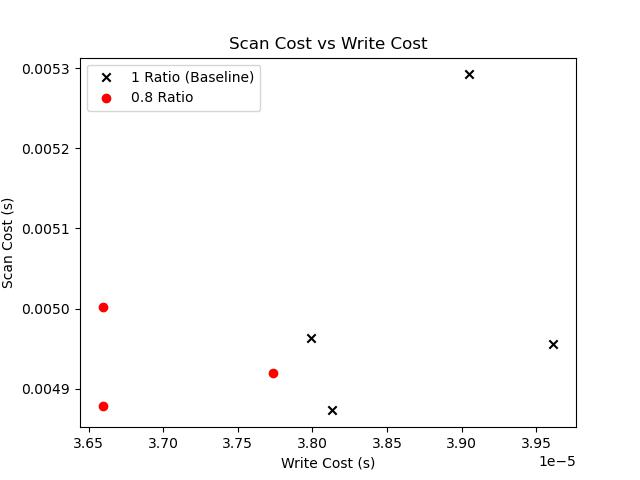
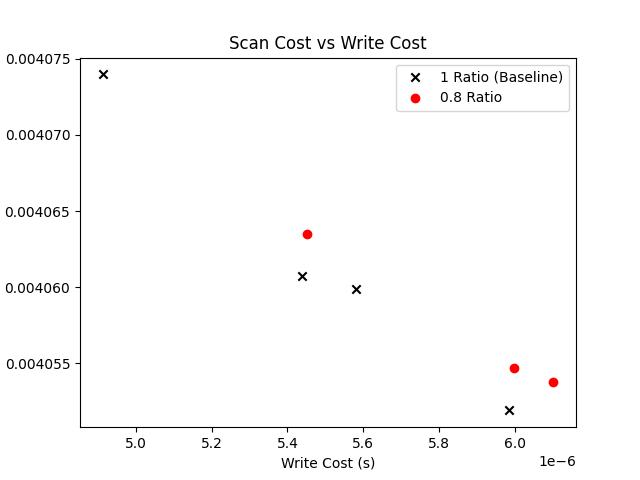
aws state

diff --git a/fig3.py b/fig3.py
@@ -15,6 +15,8 @@ f = open("../logs/fig_3_" + timestr + ".txt", "w+")
 # add list to track results
 result_fields = ["Operation", "Base Factor", "Ratio", "Time"]
 results = []
+db_path = "/home/ec2-user/research/mountpt/"
+num_mb = 10240
 
 base_factors = [2, 3, 4, 5]
 test_factors = [2, 3, 4]
@@ -27,9 +29,9 @@ if (sys.argv[1] == "1"): # need to seed
         curr_command = ["./ycsb", "-run", "-db", "leveldb", "-P", "workloads/write_uniform", "-p", "leveldb.base_scaling_factor=" + str(base_factor), "-s"]
         print("Seeding leveling db with factor " + str(base_factor) + "...")
 
-        curr_command += ["-p", "leveldb.dbname=/tmp/fig3_leveling_" + str(base_factor)]
+        curr_command += ["-p", "leveldb.dbname=" + db_path + "fig3_leveling_" + str(base_factor)]
         
-        op_count = 2048 * 1024 * 8
+        op_count = num_mb * 1024 * 8
         curr_command += ["-p", "operationcount=" + str(op_count)]
 
         r = subprocess.run(curr_command, capture_output=True, encoding="utf-8")
@@ -53,9 +55,9 @@ if (sys.argv[1] == "1"): # need to seed
 
             curr_command = base_write_args.copy()
             curr_command += ["-p", "leveldb.ratio_diff=" + str(ratio)]
-            curr_command += ["-p", "leveldb.dbname=/tmp/fig3_" + str(test_factor) + "_" + ratio_filename_str]
+            curr_command += ["-p", "leveldb.dbname=" + db_path +"fig3_" + str(test_factor) + "_" + ratio_filename_str]
             
-            op_count = 2048 * 1024 * 8
+            op_count = num_mb * 1024 * 8
             curr_command += ["-p", "operationcount=" + str(op_count)]
 
             r = subprocess.run(curr_command, capture_output=True, encoding="utf-8")
@@ -65,7 +67,7 @@ if (sys.argv[1] == "1"): # need to seed
             num = float((r.stdout[parse_location + 24:]).strip())  # magic number :(
             results.append(("WRITE", test_factor, ratio, num))
 
-            f.write("-----WRITE " + str(base_factor) + " " + str(ratio) + " -----\n")
+            f.write("-----WRITE " + str(test_factor) + " " + str(ratio) + " -----\n")
             f.write(r.stderr)
             f.write(r.stdout)
             
@@ -78,7 +80,7 @@ if int(sys.argv[1]) >= 1:
     os.chdir("../leveldb/build")
     for base_factor in base_factors:
         print("Forcing filters for leveling with " + str(base_factor) + " base...")
-        r = subprocess.run(["./seed", "0", "/tmp/fig3_leveling_" + str(base_factor), "1"], capture_output=True, encoding="utf-8")
+        r = subprocess.run(["./seed", "0", db_path + "fig3_leveling_" + str(base_factor), "1"], capture_output=True, encoding="utf-8")
         f.write("-----FILTER leveling " + str(base_factor) + " base -----\n")
         f.write(r.stderr)
         f.write(r.stdout)
@@ -87,7 +89,7 @@ if int(sys.argv[1]) >= 1:
     for test_factor in test_factors:
         for ratio, ratio_filename_str in zip(test_ratios, test_ratio_strs):
             print("Forcing filters for db with " + str(test_factor) + " base and " + str(ratio) + "ratio...")
-            r = subprocess.run(["./seed", "0", "/tmp/fig3_" + str(test_factor) + "_" + ratio_filename_str, "1"], capture_output=True, encoding="utf-8")
+            r = subprocess.run(["./seed", "0", db_path + "fig3_" + str(test_factor) + "_" + ratio_filename_str, "1"], capture_output=True, encoding="utf-8")
             f.write("-----FILTER " + str(test_factor) + " base and " + ratio_filename_str + " ratio-----\n")
             f.write(r.stderr)
             f.write(r.stdout)
@@ -104,7 +106,7 @@ for base_factor in base_factors:
     
     print("Reading from leveling db with factor " + str(base_factor) + "...")
     curr_command = base_read_args.copy()
-    curr_command += ["-p", "leveldb.dbname=/tmp/fig3_leveling_" + str(base_factor)]
+    curr_command += ["-p", "leveldb.dbname=" + db_path + "fig3_leveling_" + str(base_factor)]
 
     r = subprocess.run(curr_command, capture_output=True, encoding="utf-8")
     f.write(str(curr_command))
@@ -126,7 +128,7 @@ for test_factor in test_factors:
             print("Reading from db with " + str(test_factor) + " base and " + str(ratio) + " ratio...")
             curr_command = base_read_args.copy()
             curr_command += ["-p", "leveldb.ratio_diff=" + str(ratio)]
-            curr_command += ["-p", "leveldb.dbname=/tmp/fig3_" + str(test_factor) + "_" + ratio_filename_str]
+            curr_command += ["-p", "leveldb.dbname=" + db_path + "fig3_" + str(test_factor) + "_" + ratio_filename_str]
 
             r = subprocess.run(curr_command, capture_output=True, encoding="utf-8")
             f.write(str(curr_command))
@@ -151,7 +153,7 @@ for base_factor in base_factors:
     
     print("Scanning from leveling db with factor " + str(base_factor) + "...")
     curr_command = base_scan_args.copy()
-    curr_command += ["-p", "leveldb.dbname=/tmp/fig3_leveling_" + str(base_factor)]
+    curr_command += ["-p", "leveldb.dbname=" + db_path + "fig3_leveling_" + str(base_factor)]
 
     r = subprocess.run(curr_command, capture_output=True, encoding="utf-8")
     f.write(str(curr_command))
@@ -173,7 +175,7 @@ for test_factor in test_factors:
             print("Scanning from db with " + str(test_factor) + " base and " + str(ratio) + " ratio...")
             curr_command = base_scan_args.copy()
             curr_command += ["-p", "leveldb.ratio_diff=" + str(ratio)]
-            curr_command += ["-p", "leveldb.dbname=/tmp/fig3_" + str(test_factor) + "_" + ratio_filename_str]
+            curr_command += ["-p", "leveldb.dbname=" + db_path + "fig3_" + str(test_factor) + "_" + ratio_filename_str]
 
             r = subprocess.run(curr_command, capture_output=True, encoding="utf-8")
             f.write(str(curr_command))

diff --git a/fig1.py b/fig1.py
@@ -17,14 +17,14 @@ result_fields = ["Operation", "Size (MB)", "Ratio", "Time"]
 results = []
 
 # mb to write
-mb_to_write = [1024, 2048, 3076]
-db_path = "/tmp/"
+mb_to_write = [1024*1, 1024*2, 1024*4, 1024*6, 1024*8, 1024*10, 1024 * 12, 1024 * 14]
+db_path = "/home/ec2-user/research/mountpt/"
 
 # test ratio to use
 test_ratio = 0.8
 
 # base ratio
-base_ratio = 3
+base_ratio = 10
 
 if (sys.argv[1] == "1"):
     # do writes
